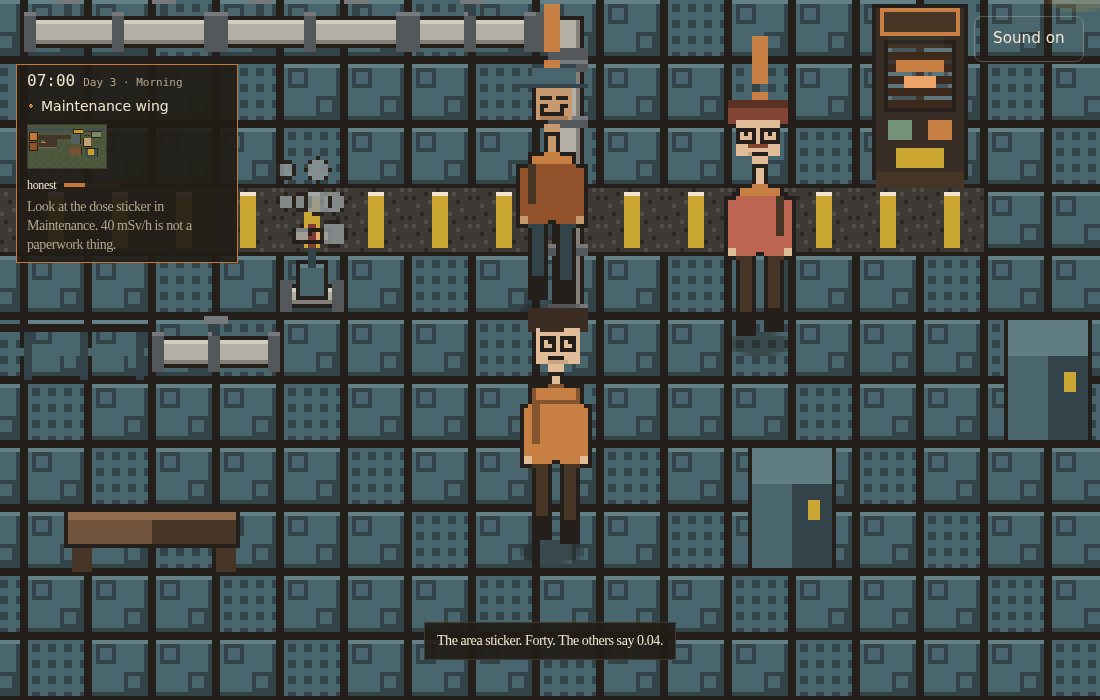
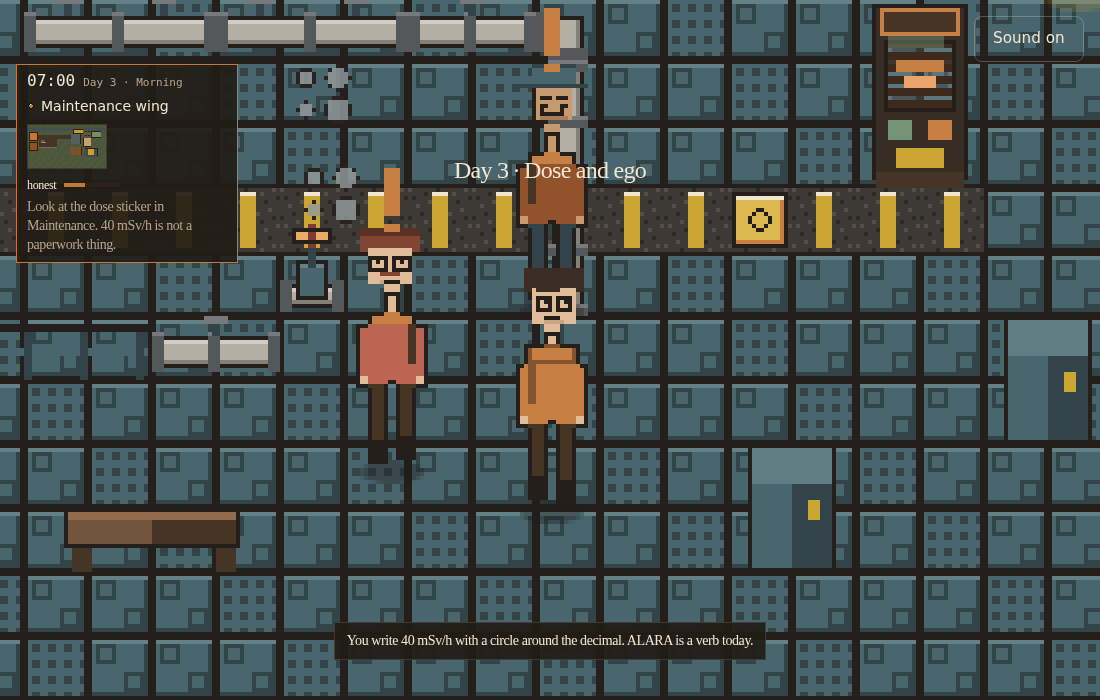
Turn the shore toward the player.
A held week looks at you. An unfinished week looks away. Yesterday is the line under the title. The ending card stops explaining the picture. Tommy and Marcus leave the thing they were staring at. Elena walks past the van. People who stayed inside are in their own rooms.

diff --git a/src/game/content.ts b/src/game/content.ts
@@ -190,6 +190,14 @@ export const ROLES: { id: RoleId; title: string; line: string }[] = [
   { id: "veteran", title: "Cautious Veteran", line: "You have seen a hide path. You did not like where it went." },
 ];
 
+/** Day-2, once, in Mabel's mouth. The menu keeps ROLES.line. She does not recite the poster. */
+export function roleMouth(role: RoleId): string {
+  if (role === "promoted") return "The title is new. The hiss is not. I am listening for the catch.";
+  if (role === "military") return "The catch is the order here. Not the rank.";
+  if (role === "veteran") return "You have seen a hide. I am watching whether you do it again.";
+  return "New site. I'll know you by what you say out loud.";
+}
+
 export const NPCS: Record<NpcId, NpcDef> = {
   mabel: {
     id: "mabel",
@@ -504,12 +512,20 @@ export function talkLines(
   const hid = anyHid(residue) || !!flags.hid || !!flags.catchMiss;
   if (npc === "mabel") {
     if (!first) {
+      const caughtWeek = residue.valve === "caught" || residue.tag === "caught" || residue.dose === "caught" || residue.log === "caught";
       const lines: Line[] = [
-        { speaker: "Mabel", text: hid ? "You left a lie on the glass. I watched you not sit with it." : "The chair remembers who used the cup as courage.", mood: hid ? "sharp" : "warm" },
+        {
+          speaker: "Mabel",
+          text: hid
+            ? "You left a lie on the glass. I watched you not sit with it."
+            : day >= 3 && caughtWeek
+              ? "You sat with the last one. The kettle is still on."
+              : "The chair remembers who used the cup as courage.",
+          mood: hid ? "sharp" : "warm",
+        },
       ];
       if (day === 2 && role && !flags.roleHeard) {
-        const heard = ROLES.find((r) => r.id === role);
-        if (heard) lines.push({ speaker: "Mabel", text: heard.line, mood: "even" });
+        lines.push({ speaker: "Mabel", text: roleMouth(role), mood: "even" });
       } else if (!hid) {
         lines.push({
           speaker: "Mabel",
@@ -556,7 +572,11 @@ export function talkLines(
   if (npc === "elena") {
     if (!first) {
       if (residue.valve === "hid") return [{ speaker: "Elena", text: "I'm still looking at the van.", mood: "even" }];
-      if (residue.valve === "caught" || flags.elenaSecondEyes) return [{ speaker: "Elena", text: "I saw your hands. I'll back that catch.", mood: "soft" }];
+      if (residue.valve === "caught" || flags.elenaSecondEyes) {
+        const lines: Line[] = [{ speaker: "Elena", text: "I saw your hands. I'll back that catch.", mood: "soft" }];
+        if (day >= 2) lines.push({ speaker: "Elena", text: "I am not looking at the van anymore.", mood: "soft" });
+        return lines;
+      }
       return [{ speaker: "Elena", text: "Stand where I can see your hands.", mood: "even" }];
     }
     return [
@@ -567,7 +587,11 @@ export function talkLines(
   }
   if (npc === "tommy") {
     if (!first) {
-      if (residue.tag === "caught") return [{ speaker: "Tommy", text: "The tag is down. Pump two can stay quiet.", mood: "even" }];
+      if (residue.tag === "caught") {
+        const lines: Line[] = [{ speaker: "Tommy", text: "The tag is down. Pump two can stay quiet.", mood: "even" }];
+        if (day >= 3) lines.push({ speaker: "Tommy", text: "You can ask for the wrench.", mood: "even" });
+        return lines;
+      }
       if (residue.tag === "hid") return [{ speaker: "Tommy", text: "IN SERVICE is still on the flange.", mood: "sharp" }];
       if (day === 2) return [{ speaker: "Tommy", text: "Pump 2A. The hunt is on the board.", mood: "sharp" }];
       return [{ speaker: "Tommy", text: "Finish the sentence before you ask me for a wrench.", mood: "even" }];
@@ -580,7 +604,15 @@ export function talkLines(
   }
   if (npc === "marcus") {
     if (!first) {
-      if (residue.dose === "caught") return [{ speaker: "Marcus", text: "You said forty out loud. That is the number.", mood: "tired" }];
+      if (residue.dose === "caught") {
+        const lines: Line[] = [{ speaker: "Marcus", text: "You said forty out loud. That is the number.", mood: "tired" }];
+        lines.push({
+          speaker: "Marcus",
+          text: day >= 4 ? "I will turn around for the next one." : "I turned. That was the number, not me.",
+          mood: "tired",
+        });
+        return lines;
+      }
       if (residue.dose === "hid") return [{ speaker: "Marcus", text: "The sticker still says 40. I am not turning around.", mood: "sharp" }];
       return [{ speaker: "Marcus", text: "Say the number before you defend it.", mood: "even" }];
     }
@@ -593,7 +625,11 @@ export function talkLines(
   if (npc === "priya") {
     if (!first) {
       if (anyHid(residue)) return [{ speaker: "Priya", text: "I will not sign. The rail is empty.", mood: "sharp" }];
-      if (day >= 5) return [{ speaker: "Priya", text: "I will walk that peak to the rail.", mood: "soft" }];
+      if (day >= 5) {
+        const lines: Line[] = [{ speaker: "Priya", text: "I will walk that peak to the rail.", mood: "soft" }];
+        if (flags.shuffle) lines.push({ speaker: "Priya", text: "You stood next to the tank. So will I.", mood: "soft" });
+        return lines;
+      }
       if (flags.physMcHeld) return [{ speaker: "Priya", text: "You ran analog MC. k ± σ. The bank is the clock. OpenMC stays a letter, and I still will not sign a peak I have not walked.", mood: "soft" }];
       if (flags.physPlayed) return [{ speaker: "Priya", text: "You watched the pin. Leakage is the last two doors. Teaching analog — not a license.", mood: "even" }];
       return [{ speaker: "Priya", text: "The sheet is still a rumor until you stand next to the tank.", mood: "even" }];
@@ -605,8 +641,12 @@ export function talkLines(
     ];
   }
   if (!first) {
-    if (hid) return [{ speaker: "Jordan", text: "Distance.", mood: "even" }];
-    if (flags.peered || flags.jordanCredit) return [{ speaker: "Jordan", text: "The catch was said. The chair is yours.", mood: "soft" }];
+    if (hid) return [{ speaker: "Jordan", text: day >= 4 ? "Distance. The chair stayed empty." : "Distance.", mood: "even" }];
+    if (flags.peered || flags.jordanCredit) {
+      const lines: Line[] = [{ speaker: "Jordan", text: "The catch was said. The chair is yours.", mood: "soft" }];
+      if (day >= 3 && !anyHid(residue)) lines.push({ speaker: "Jordan", text: "I'll sit the same row.", mood: "soft" });
+      return lines;
+    }
     return [{ speaker: "Jordan", text: "Say the catch out here.", mood: "even" }];
   }
   return [

diff --git a/src/game/week.ts b/src/game/week.ts
@@ -231,7 +231,7 @@ export function shoreLine(ended: "a" | "c" | null, residue: Residue, shuffleDone
   if (residue.tag === "caught") names.push("Tommy");
   if (residue.dose === "caught") names.push("Marcus");
   if (shuffleDone && !anyHid(residue)) names.push("Priya");
-  return `${names.join(", ")} came to the shore. The floor held because they saw the catches.`;
+  return `${names.join(", ")} came to the shore. They turned to look at you.`;
 }
 
 /** Yesterday's last catch or hide, for the morning brief. Names the object that is still in the room. */
@@ -273,17 +273,19 @@ export function occupancyOverlay(
   shuffleDone: boolean,
   elenaSecondEyes: boolean,
 ): NpcSlot | undefined {
-  if (ending) return duskPost(id, residue, ended, shuffleDone, elenaSecondEyes) ?? OFFSTAGE;
+  if (ending) return duskPost(id, residue, ended, shuffleDone, elenaSecondEyes) ?? away(id);
   if (id === "jordan" && anyHid(residue)) return { room: "breakroom", x: 248, y: 160, face: "right", radius: 12 };
   if (day === 1 && id === "elena") {
-    if (residue.valve === "caught") return { room: "gate", x: 368, y: 248, face: "left", radius: 12 };
+    if (residue.valve === "caught") return { room: "gate", x: 400, y: 248, face: "right", radius: 12 };
     return { room: "gate", x: 220, y: 248, face: "right", radius: 12 };
   }
   if (day === 2 && id === "tommy") {
-    return { room: "maintenance", x: 208, y: 160, face: residue.tag === "caught" ? "down" : "up", radius: 12 };
+    if (residue.tag === "caught") return { room: "maintenance", x: 208, y: 220, face: "down", radius: 12 };
+    return { room: "maintenance", x: 208, y: 160, face: "up", radius: 12 };
   }
   if (day === 3 && id === "marcus") {
-    return { room: "maintenance", x: 232, y: 168, face: residue.dose === "caught" ? "left" : "up", radius: 12 };
+    if (residue.dose === "caught") return { room: "maintenance", x: 140, y: 200, face: "left", radius: 12 };
+    return { room: "maintenance", x: 232, y: 168, face: "up", radius: 12 };
   }
   if (day === 4 && id === "holt") {
     if (residue.log === "caught") return { room: "control", x: 112, y: 140, face: "up", radius: 12 };
@@ -295,7 +297,16 @@ export function occupancyOverlay(
   return undefined;
 }
 
-const OFFSTAGE: NpcSlot = { room: "engineering", x: 96, y: 160, face: "down", radius: 12 };
+/** Not on the lot. One person, their own room, not a pile. */
+function away(id: NpcId): NpcSlot {
+  if (id === "holt") return { room: "control", x: 120, y: 140, face: "up", radius: 12 };
+  if (id === "tommy") return { room: "maintenance", x: 180, y: 160, face: "up", radius: 12 };
+  if (id === "marcus") return { room: "engineering", x: 160, y: 150, face: "down", radius: 12 };
+  if (id === "priya") return { room: "engineering", x: 240, y: 150, face: "left", radius: 12 };
+  if (id === "jordan") return { room: "breakroom", x: 140, y: 150, face: "left", radius: 12 };
+  if (id === "elena") return { room: "cafe", x: 96, y: 180, face: "right", radius: 12 };
+  return { room: "cafe", x: 210, y: 150, face: "down", radius: 12 };
+}
 
 function duskPost(id: NpcId, residue: Residue, ended: "a" | "c" | null, shuffleDone: boolean, elenaSecondEyes: boolean): NpcSlot | undefined {
   const hid = anyHid(residue);
@@ -304,12 +315,12 @@ function duskPost(id: NpcId, residue: Residue, ended: "a" | "c" | null, shuffleD
     if (id === "jordan") return { room: "gate", x: 1224, y: 172, face: "right", radius: 12 };
     return undefined;
   }
-  if (id === "mabel") return { room: "gate", x: 1058, y: 172, face: "up", radius: 12 };
-  if (id === "holt" && residue.log === "caught") return { room: "gate", x: 1094, y: 172, face: "up", radius: 12 };
-  if (id === "elena" && (residue.valve === "caught" || elenaSecondEyes)) return { room: "gate", x: 1130, y: 172, face: "up", radius: 12 };
-  if (id === "jordan" && !hid) return { room: "gate", x: 1166, y: 172, face: "up", radius: 12 };
-  if (id === "tommy" && residue.tag === "caught") return { room: "gate", x: 1202, y: 172, face: "up", radius: 12 };
-  if (id === "marcus" && residue.dose === "caught") return { room: "gate", x: 1230, y: 172, face: "up", radius: 12 };
-  if (id === "priya" && shuffleDone && !hid) return { room: "gate", x: 1112, y: 142, face: "up", radius: 12 };
+  if (id === "mabel") return { room: "gate", x: 1058, y: 172, face: "down", radius: 12 };
+  if (id === "holt" && residue.log === "caught") return { room: "gate", x: 1094, y: 172, face: "down", radius: 12 };
+  if (id === "elena" && (residue.valve === "caught" || elenaSecondEyes)) return { room: "gate", x: 1130, y: 172, face: "down", radius: 12 };
+  if (id === "jordan" && !hid) return { room: "gate", x: 1166, y: 172, face: "down", radius: 12 };
+  if (id === "tommy" && residue.tag === "caught") return { room: "gate", x: 1202, y: 172, face: "down", radius: 12 };
+  if (id === "marcus" && residue.dose === "caught") return { room: "gate", x: 1230, y: 172, face: "down", radius: 12 };
+  if (id === "priya" && shuffleDone && !hid) return { room: "gate", x: 1112, y: 142, face: "down", radius: 12 };
   return undefined;
 }

diff --git a/src/game/sim.ts b/src/game/sim.ts
@@ -6,7 +6,6 @@ import {
   INTRO,
   NPCS,
   NPC_SCHEDULE,
-  ROLES,
   ROOMS,
   clockLabel,
   emptyResidue,
@@ -14,6 +13,7 @@ import {
   periodFromMinutes,
   periodLabel,
   residueKey,
+  roleMouth,
   talkLines,
   anyHid,
   type Choice,
@@ -29,7 +29,7 @@ import {
 import { RADIUS, SPEED, WALL } from "./const";
 import { type PlantDesign, type ShuffleCell } from "./plant";
 import { DEFAULT_PLAYER_LOOK, type PlayerLook } from "./artSpec";
-import { INCIDENTS, occupancyOverlay, dayDef, COMMUTE_SPAWN, DUSK_SPAWN, type WeekLogEntry } from "./week";
+import { INCIDENTS, occupancyOverlay, dayDef, shoreLine, COMMUTE_SPAWN, DUSK_SPAWN, type WeekLogEntry } from "./week";
 import { writeSave, wipeSave } from "./save";
 import { playCatch, playDoor, playFoot, playHide, playReport, playSit, playStand, playTalk } from "./audio";
 import { isRevealing, requestSkip } from "./chatter";
@@ -583,9 +583,10 @@ export function addMinutes(s: GameState, n: number) {
 export function refreshObjective(s: GameState) {
   const d = dayDef(s.day);
   if (s.flags.endingWalk) {
-    s.objective = s.closePrompt
-      ? "The week can close. The stack is still breathing."
-      : "Walk the lot. Lake north. The stack is still breathing.";
+    const who = s.ended === "a"
+      ? shoreLine(s.ended, s.residue, s.shuffleDone, !!s.flags.elenaSecondEyes)
+      : "Only Mabel and Jordan are on the shore. They are not looking at you.";
+    s.objective = s.closePrompt ? who : `${who} Walk once.`;
     return;
   }
   if (s.day === 5 && !s.shuffleDone) {
@@ -824,7 +825,7 @@ export function beginEndingWalk(s: GameState) {
   s.announce = "Dusk · Lot";
   s.announceT = 2.6;
   s.objective = "Walk the lot. Lake north. The stack is still breathing.";
-  pushMsg(s, s.ended === "a" ? "The stack is still breathing. Walk once. Lake north." : "The lot is quiet. The hiss is not. Walk once.");
+  pushMsg(s, s.ended === "a" ? "They came. Walk once. Lake north." : "Only Mabel and Jordan. They are not looking at you.");
 }
 export function nextDay(s: GameState) {
   if (s.day >= 5) {
@@ -837,8 +838,7 @@ export function nextDay(s: GameState) {
 export function openTalk(s: GameState, npc: NpcId) {
   s.dialogue = talkLines(npc, s.flags, s.culture, s.period, s.day, s.role, s.residue, !!s.flags.endingWalk, s.ended);
   if (npc === "mabel" && s.day === 2 && s.role) {
-    const heard = ROLES.find((r) => r.id === s.role);
-    if (heard && s.dialogue.some((l) => l.text === heard.line)) s.flags.roleHeard = true;
+    if (s.dialogue.some((l) => l.text === roleMouth(s.role as RoleId))) s.flags.roleHeard = true;
   }
   s.dialogueI = 0;
   s.mode = "dialogue";

diff --git a/src/game/GameApp.tsx b/src/game/GameApp.tsx
@@ -861,10 +861,10 @@ export function GameApp() {
             <div key={s.day} className="flex w-full flex-col items-center">
               <p className="font-display text-xs uppercase tracking-[0.18em] text-accent">{dayDef(s.day).kicker}</p>
               <h2 className="font-display mt-3 max-w-lg text-3xl leading-tight text-fg">{dayDef(s.day).title}</h2>
-              <Chatter text={dayDef(s.day).holt} voice="holt" className="dialogue-line mt-3 max-w-md text-sm leading-relaxed text-muted" />
               {yesterdayLine(s.day, s.weekLog, s.residue) ? (
-                <p className="mt-3 max-w-md text-sm leading-relaxed text-subtle">{yesterdayLine(s.day, s.weekLog, s.residue)}</p>
+                <p className="mt-4 max-w-md font-display text-lg leading-snug text-fg">{yesterdayLine(s.day, s.weekLog, s.residue)}</p>
               ) : null}
+              <Chatter text={dayDef(s.day).holt} voice="holt" className="dialogue-line mt-3 max-w-md text-sm leading-relaxed text-muted" />
               <ul className="mt-4 max-w-md space-y-1.5 text-left text-sm leading-relaxed text-subtle">
                 {dayDef(s.day).items.map((item) => (
                   <li key={item}>{item}</li>
@@ -1398,7 +1398,7 @@ export function GameApp() {
               <p className="mt-3 text-sm leading-relaxed">
                 {s.ended === "a"
                   ? shoreLine(s.ended, s.residue, s.shuffleDone, !!s.flags.elenaSecondEyes)
-                  : "The shore is empty except Mabel and Jordan. The hiss kept talking. The lot is quiet. The plant is not."}
+                  : "The shore is empty except Mabel and Jordan. They are not looking at you. The hiss kept talking."}
               </p>
               {s.weekLog.length > 0 ? (
                 <ul className="mt-3 space-y-1 text-left text-[12px] leading-relaxed text-[#3a2818]" data-testid="week-log-ending">
@@ -1407,10 +1407,6 @@ export function GameApp() {
                   ))}
                 </ul>
               ) : null}
-              <p className="mt-3 text-sm leading-relaxed text-[#6a4a32]">
-                Every plant, every person, every kid needs an environment that lets them thrive. Be allowed to err.
-                Grow into who you need to be. Reach criticality surrounded by those who love you enough to catch you.
-              </p>
               <p className="mt-3 text-[11px] text-[#8a7864]">Teaching model — not a license. Catch greater than heroics.</p>
               <div className="mt-5 flex flex-col gap-2">
                 <button
